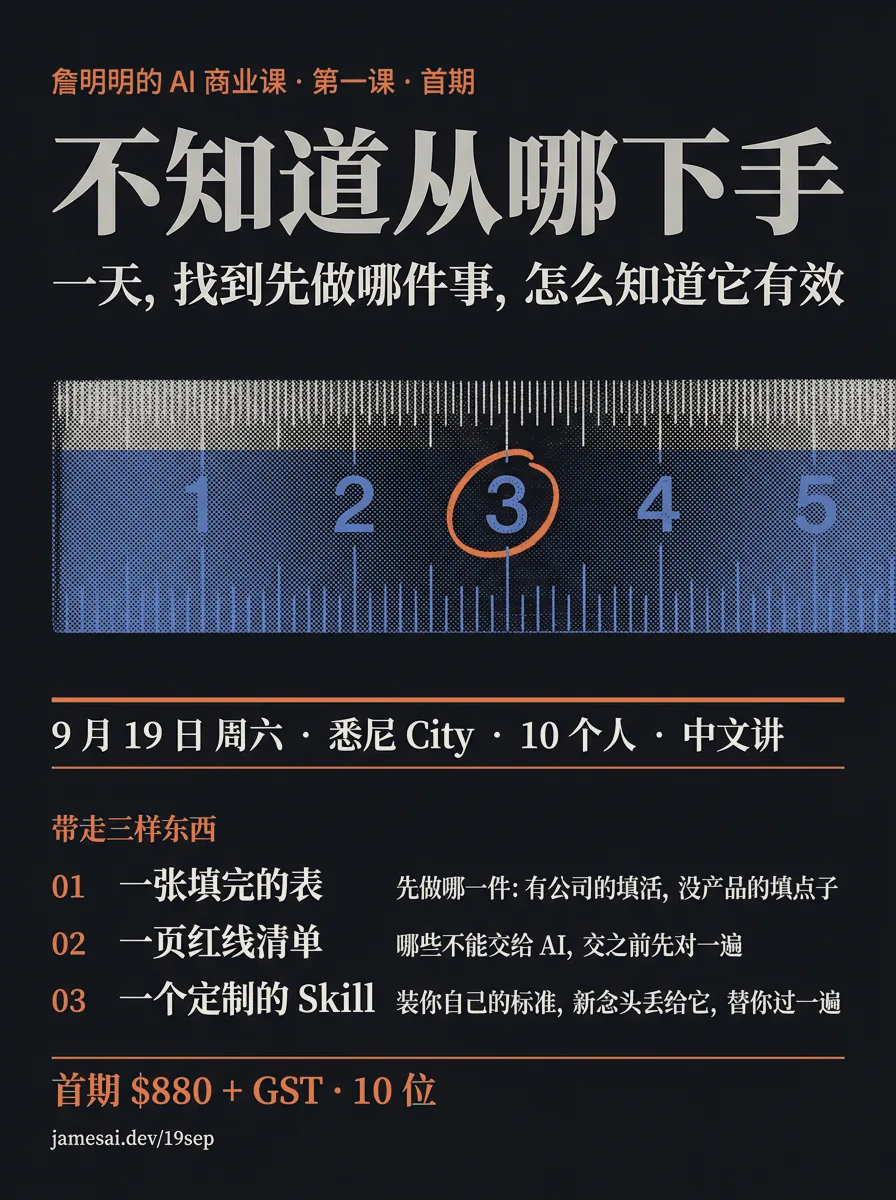
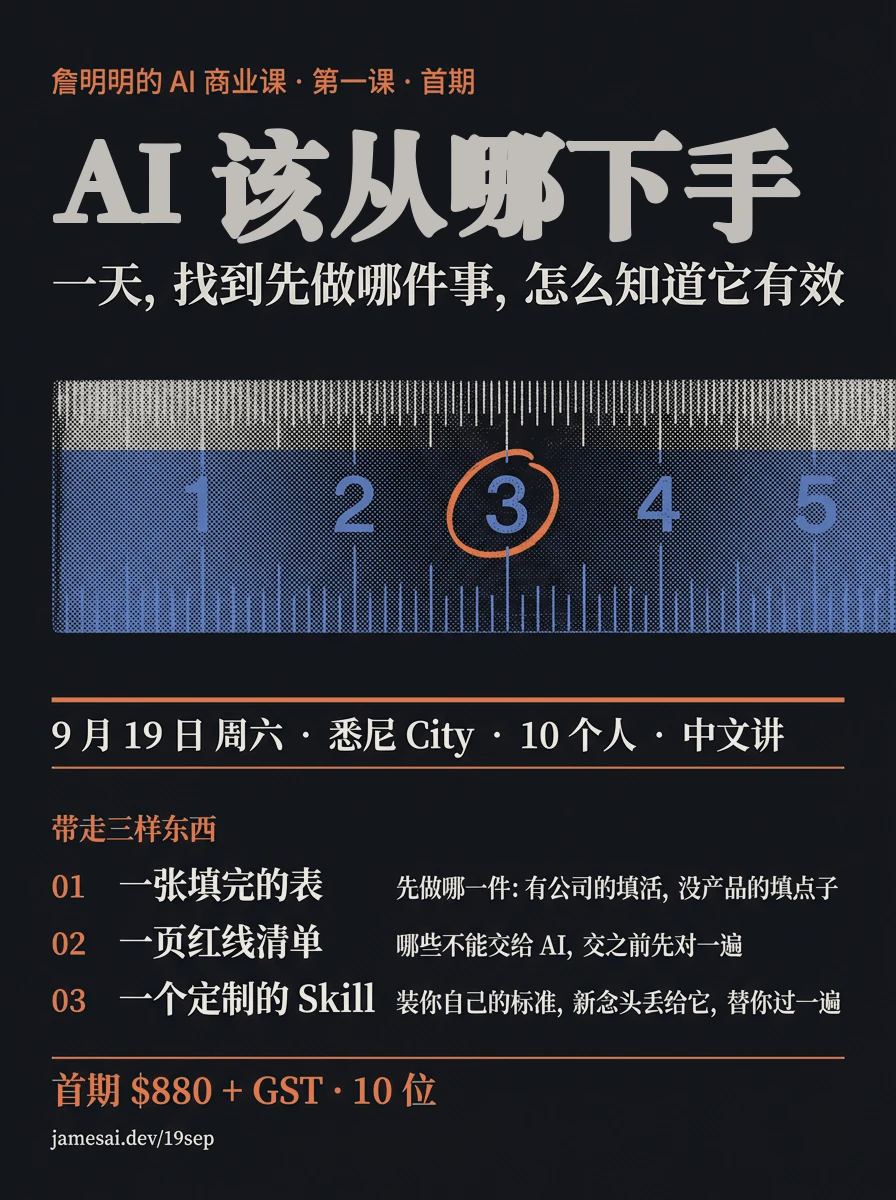
19 Sep poster: headline now says AI 该从哪下手, page title and lead follow

Changed region(s): [[0.0625, 0.0925, 0.9375, 0.2158]]

diff --git a/19sep/index.html b/19sep/index.html
@@ -3,7 +3,7 @@
 <head>
 <meta charset="utf-8">
 <meta name="viewport" content="width=device-width, initial-scale=1, viewport-fit=cover">
-<title>从哪下手 · 詹明明的 AI 商业课 · 9月19日 悉尼</title>
+<title>AI 该从哪下手 · 詹明明的 AI 商业课 · 9月19日 悉尼</title>
 <meta name="description" content="2026年9月19日周六，悉尼 City，一整天，10 个人，中文讲。一天，找到先做哪件事，怎么知道它有效。带走一张填完的表、一页红线清单，和一个装着你自己标准的定制 Skill。">
 <meta name="theme-color" content="#F5F1E8" media="(prefers-color-scheme: light)">
 <meta name="theme-color" content="#14161C" media="(prefers-color-scheme: dark)">
@@ -13,7 +13,7 @@
 <link rel="apple-touch-icon" href="../assets/favicon-180.png">
 <link rel="canonical" href="https://jamesai.dev/19sep/">
 <meta property="og:type" content="website">
-<meta property="og:title" content="不知道从哪下手">
+<meta property="og:title" content="AI 该从哪下手">
 <meta property="og:description" content="《詹明明的 AI 商业课》第一课 · 一天，找到先做哪件事，怎么知道它有效 · 9月19日周六 · 悉尼 City · 10 个人">
 <meta property="og:url" content="https://jamesai.dev/19sep/">
 <meta property="og:image" content="https://jamesai.dev/19sep/poster.png">
@@ -471,14 +471,14 @@ footer a { color: var(--ink-soft); text-decoration: none; border-bottom: 1px sol
        beige rectangle on a near-black page is the one thing that would still
        look bolted on after the restyle. The download and the og:image stay the
        day sheet: that is the one people share. -->
-  <a class="poster-link" href="poster.png?v=2"><img class="poster" id="poster"
-       src="poster.webp?v=4" data-day="poster.webp?v=4" data-night="poster-night.webp?v=4"
+  <a class="poster-link" href="poster.png?v=3"><img class="poster" id="poster"
+       src="poster.webp?v=5" data-day="poster.webp?v=5" data-night="poster-night.webp?v=5"
        width="896" height="1200" fetchpriority="high" decoding="async"
-       alt="詹明明的 AI 商业课 · 第一课 · 首期。不知道从哪下手。一天，找到先做哪件事，怎么知道它有效。9 月 19 日周六，悉尼 City，10 个人，中文讲。带走三样东西：一张填完的表、一页红线清单、一个定制的 Skill。首期 $880 + GST，10 位。"></a>
+       alt="詹明明的 AI 商业课 · 第一课 · 首期。AI 该从哪下手。一天，找到先做哪件事，怎么知道它有效。9 月 19 日周六，悉尼 City，10 个人，中文讲。带走三样东西：一张填完的表、一页红线清单、一个定制的 Skill。首期 $880 + GST，10 位。"></a>
 
   <section>
     <h2>这是哪一门</h2>
-    <p class="lead">《詹明明的 AI 商业课》分两门，各自独立，分开报名。<br><span class="k">第一课 · 从哪下手</span>（这一门）、第二课 · 怎么让人找到你。</p>
+    <p class="lead">《詹明明的 AI 商业课》分两门，各自独立，分开报名。<br><span class="k">第一课 · AI 该从哪下手</span>（这一门）、第二课 · 怎么让人找到你。</p>
     <p class="soft">
       第一课讲的是同一件事的两个入口：<b>已经有业务的，往里看</b>——公司或账号里那件没人愿意干、又天天要干的活，就是 AI 该下手的地方；<b>还没有业务的，往外看</b>——市场上已经有谁在卖类似的东西，有人在为它付钱。
       第二课讲获客：内容怎么做，以及客户问 AI 要推荐名单的时候，里面有没有你。
